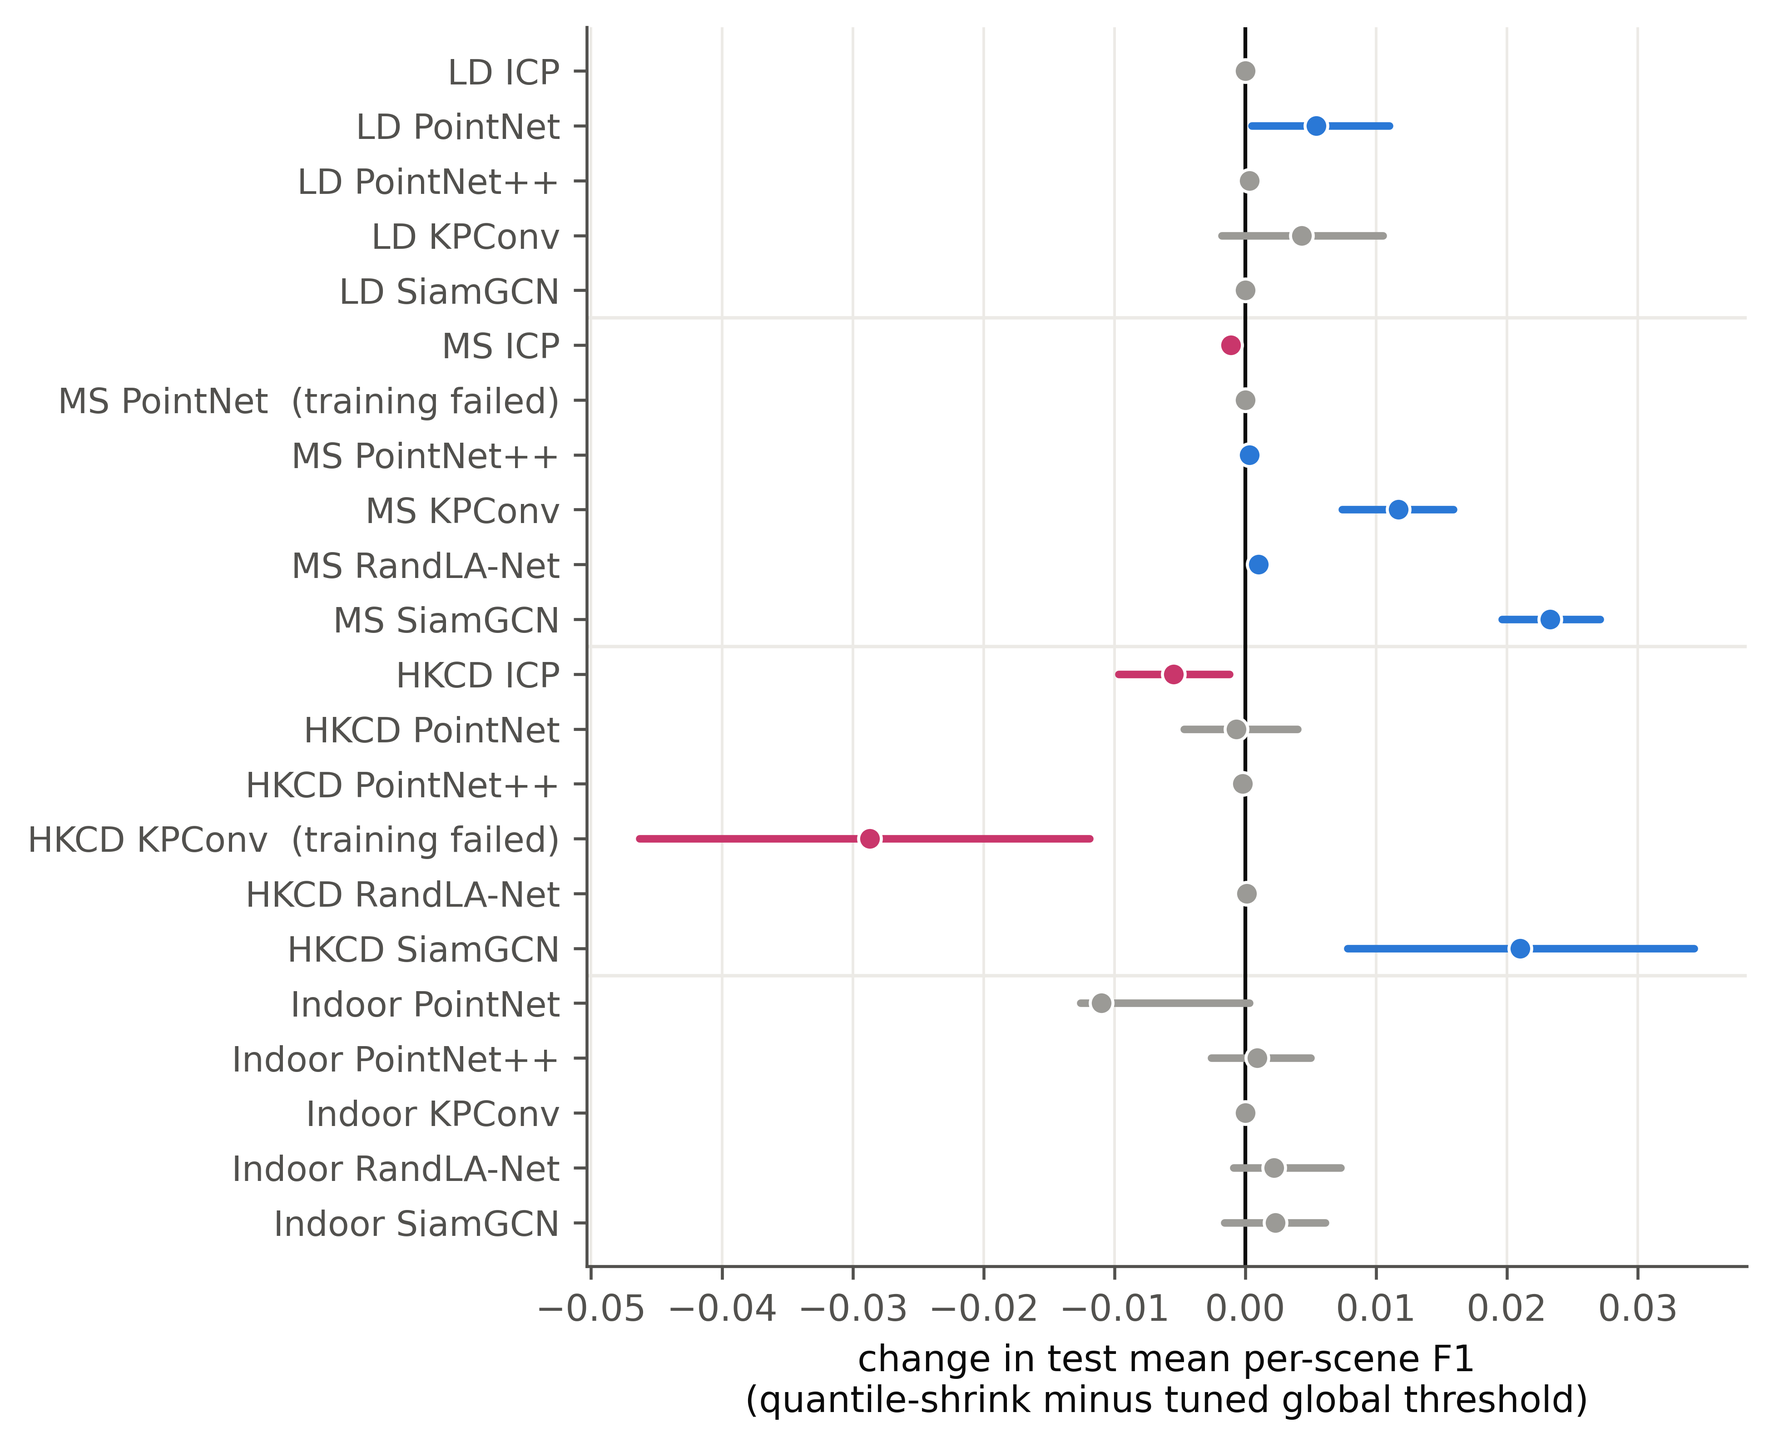
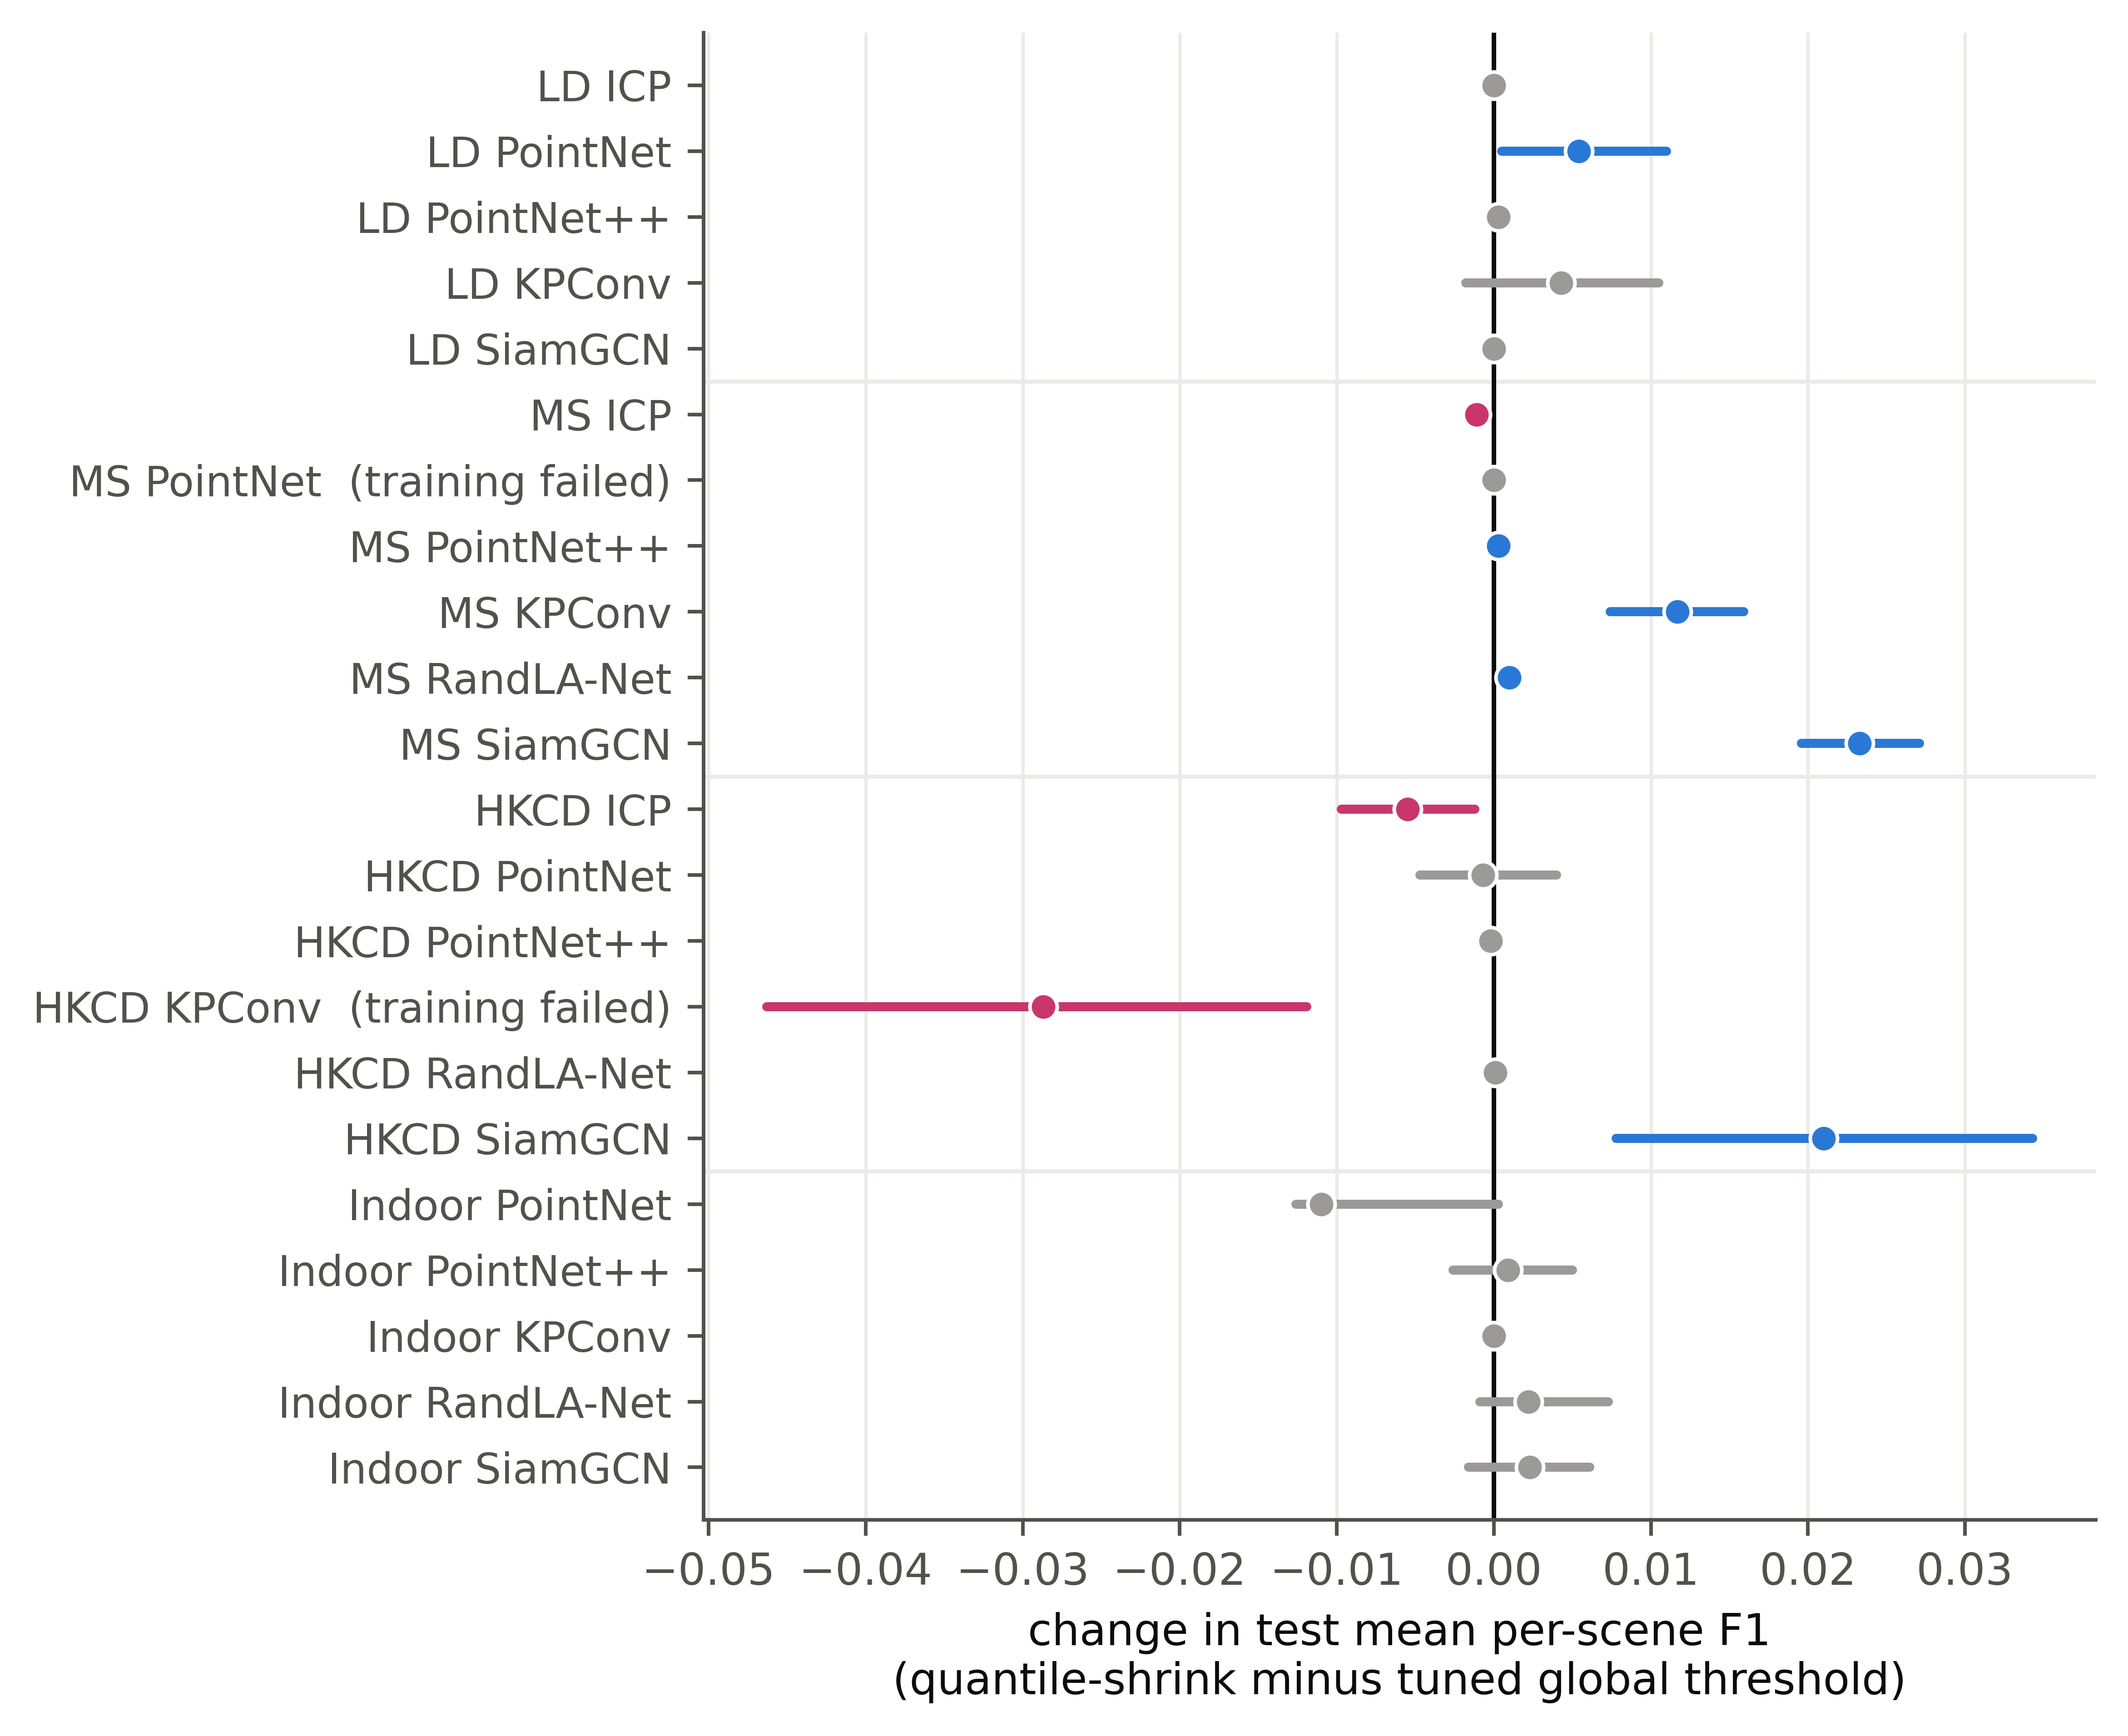
Raise the resolution of Fig. 2 and Fig. 4 to at least 600 dpi at 174 mm

Changed region(s): [[0.2499, 0.5281, 0.2811, 0.5591]]

diff --git a/src/plot_method_concept.py b/src/plot_method_concept.py
@@ -207,7 +207,7 @@ def main():
                loc="lower center", ncol=3, frameon=False, fontsize=7.8, bbox_to_anchor=(0.5, -0.045),
                handlelength=1.2, columnspacing=1.5)
     out = os.path.join(OUT_DIR, "fig_method_concept.png")
-    fig.savefig(out, dpi=600, bbox_inches="tight", pad_inches=0.03)
+    fig.savefig(out, dpi=720, bbox_inches="tight", pad_inches=0.03)
     print("wrote", out)
 
 

diff --git a/src/plot_paper_v2.py b/src/plot_paper_v2.py
@@ -186,7 +186,7 @@ def fig_forest():
     ax.set_axisbelow(True)
     despine(ax)
     fig.tight_layout()
-    fig.savefig(os.path.join(OUT, "fig_forest.png"), dpi=600, bbox_inches="tight")
+    fig.savefig(os.path.join(OUT, "fig_forest.png"), dpi=720, bbox_inches="tight")
     fig.savefig(os.path.join(OUT, "fig_forest.pdf"), bbox_inches="tight")
     plt.close(fig)
 
